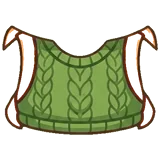
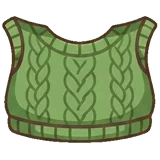
feat: knit vest art without strap leftovers
Claude-Session: https://claude.ai/code/session_01TMuZkMJP4hzkW6LA5qD8Qx

diff --git a/assets-src/PROMPTS.md b/assets-src/PROMPTS.md
@@ -177,7 +177,7 @@ In the attached image keep only FRONT, exactly where it is, with the same size, 
 | `acc-sunglasses.jpg` | glasses: FRAME = cool black wayfarer sunglasses: a thick glossy black frame with a slightly wider, raised top edge and lenses that are a bit narrower at the bottom, a straight bridge, and two short temple arms reaching toward the sides of the head | done 2026-10-21 (the script makes the lenses a soft see-through dark tint) |
 | `acc-dragon-wings.jpg` | back: ITEM = small soft orange baby-dragon wings on the back, visible on both sides | done 2026-10-21 (longer than before; drawn behind the body) |
 | `acc-star-cape.jpg` | a dark blue cape with stars hanging from the shoulders behind the body, visible on both sides | done 2026-10-21 (with `acc-star-cape-front.jpg`: clasp and collar over the body) |
-| `acc-knit-vest.jpg` | a cozy green knitted vest on the body | backpack straps left at both sides |
+| `acc-knit-vest.jpg` | a cozy green knitted vest on the body | done 2026-10-21 |
 | `acc-backpack.jpg` | a small orange backpack on the back, its straps visible over the shoulders | only broken pieces of the straps |
 | `acc-lantern.jpg` | a small lantern in the right hand | a stray vertical line next to it |
 
